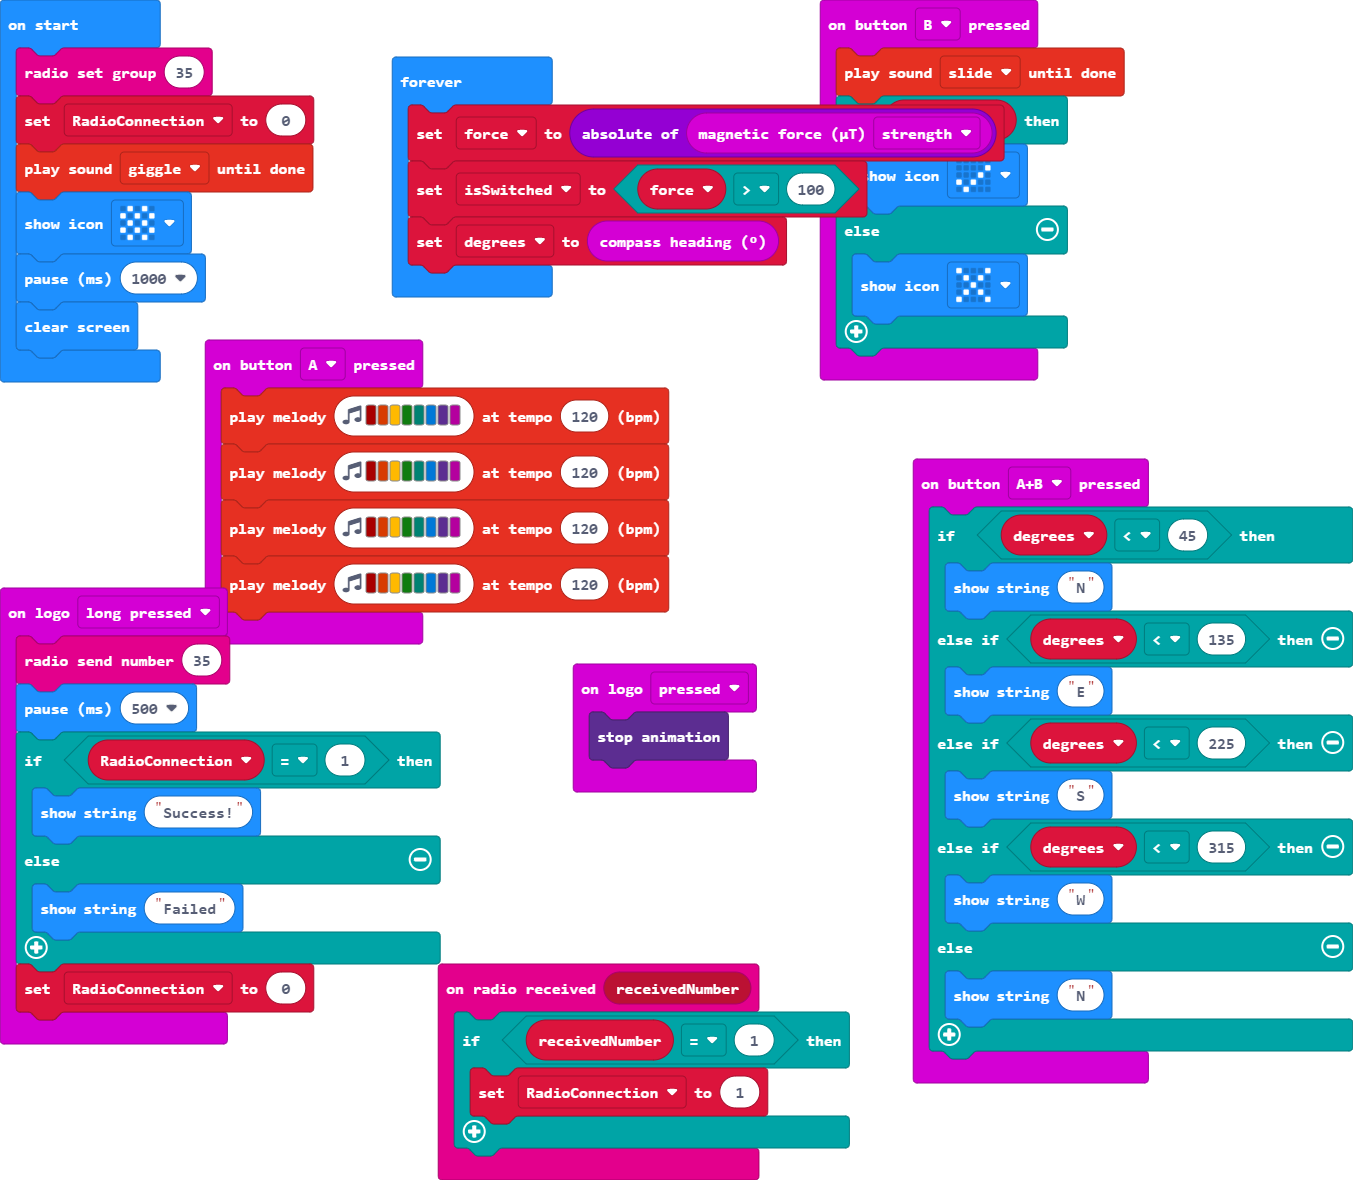
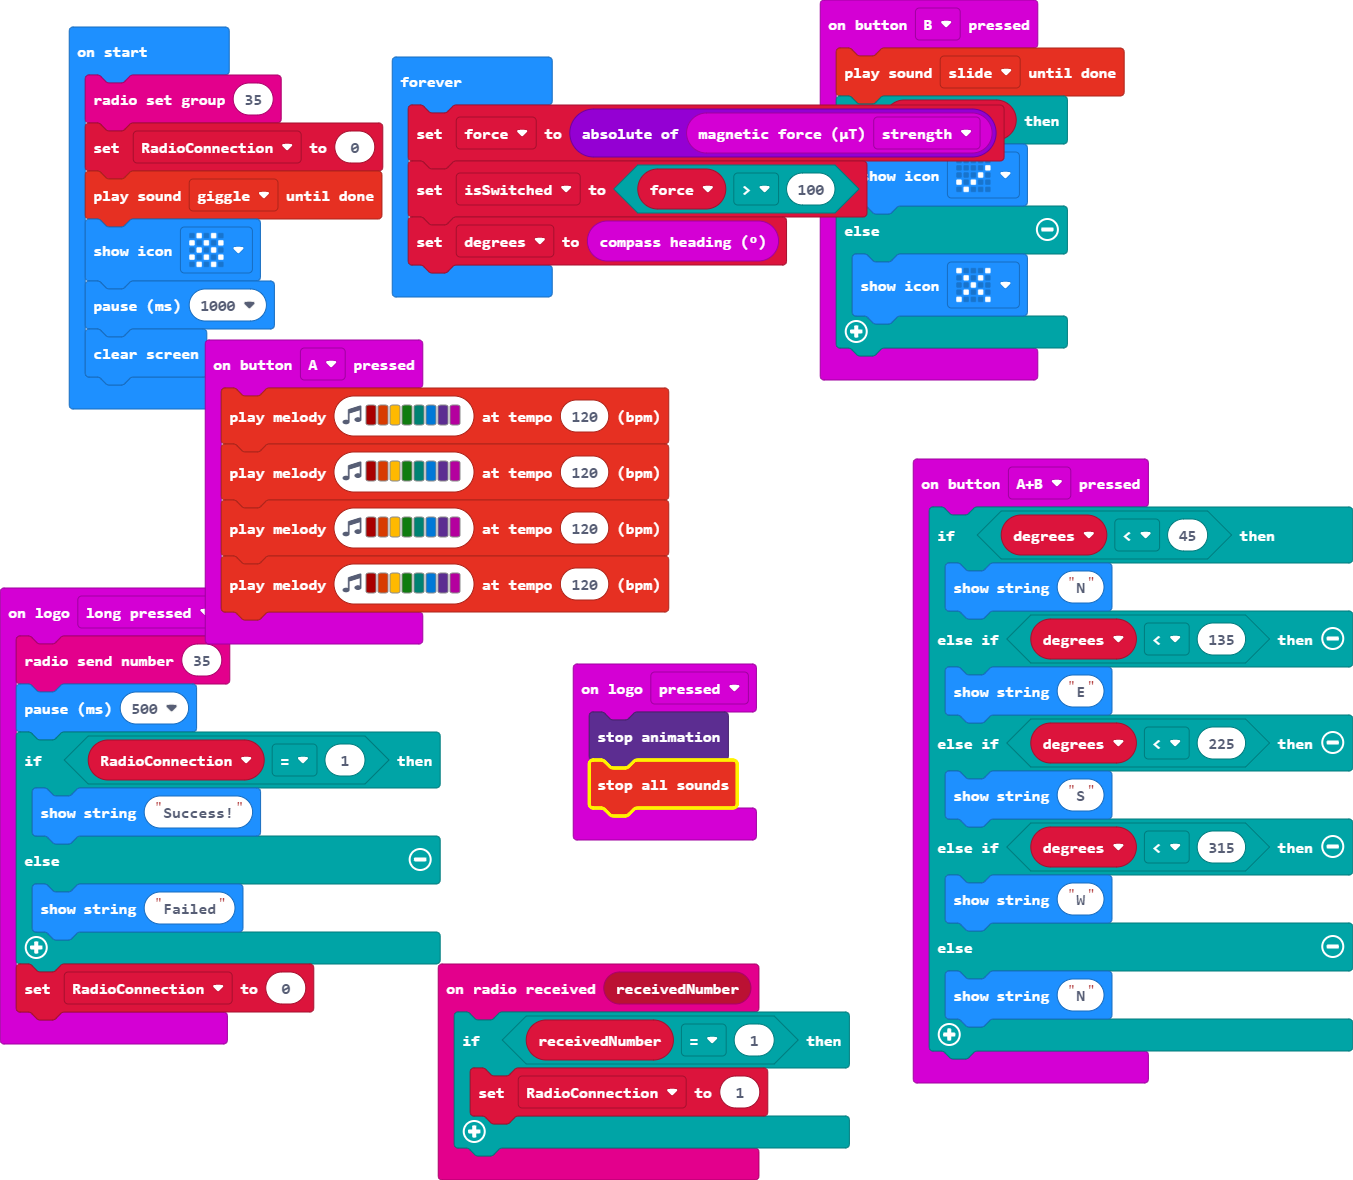
Update main.blocks, main.ts

Changed region(s): [[0.0, 0.0, 0.3104, 0.3661], [0.4035, 0.6407, 0.5588, 0.7322], [0.1552, 0.4881, 0.1863, 0.5492]]

diff --git a/main.ts b/main.ts
@@ -45,6 +45,7 @@ input.onButtonPressed(Button.B, function () {
 })
 input.onLogoEvent(TouchButtonEvent.Pressed, function () {
     led.stopAnimation()
+    music.stopAllSounds()
 })
 let force = 0
 let isSwitched = false
